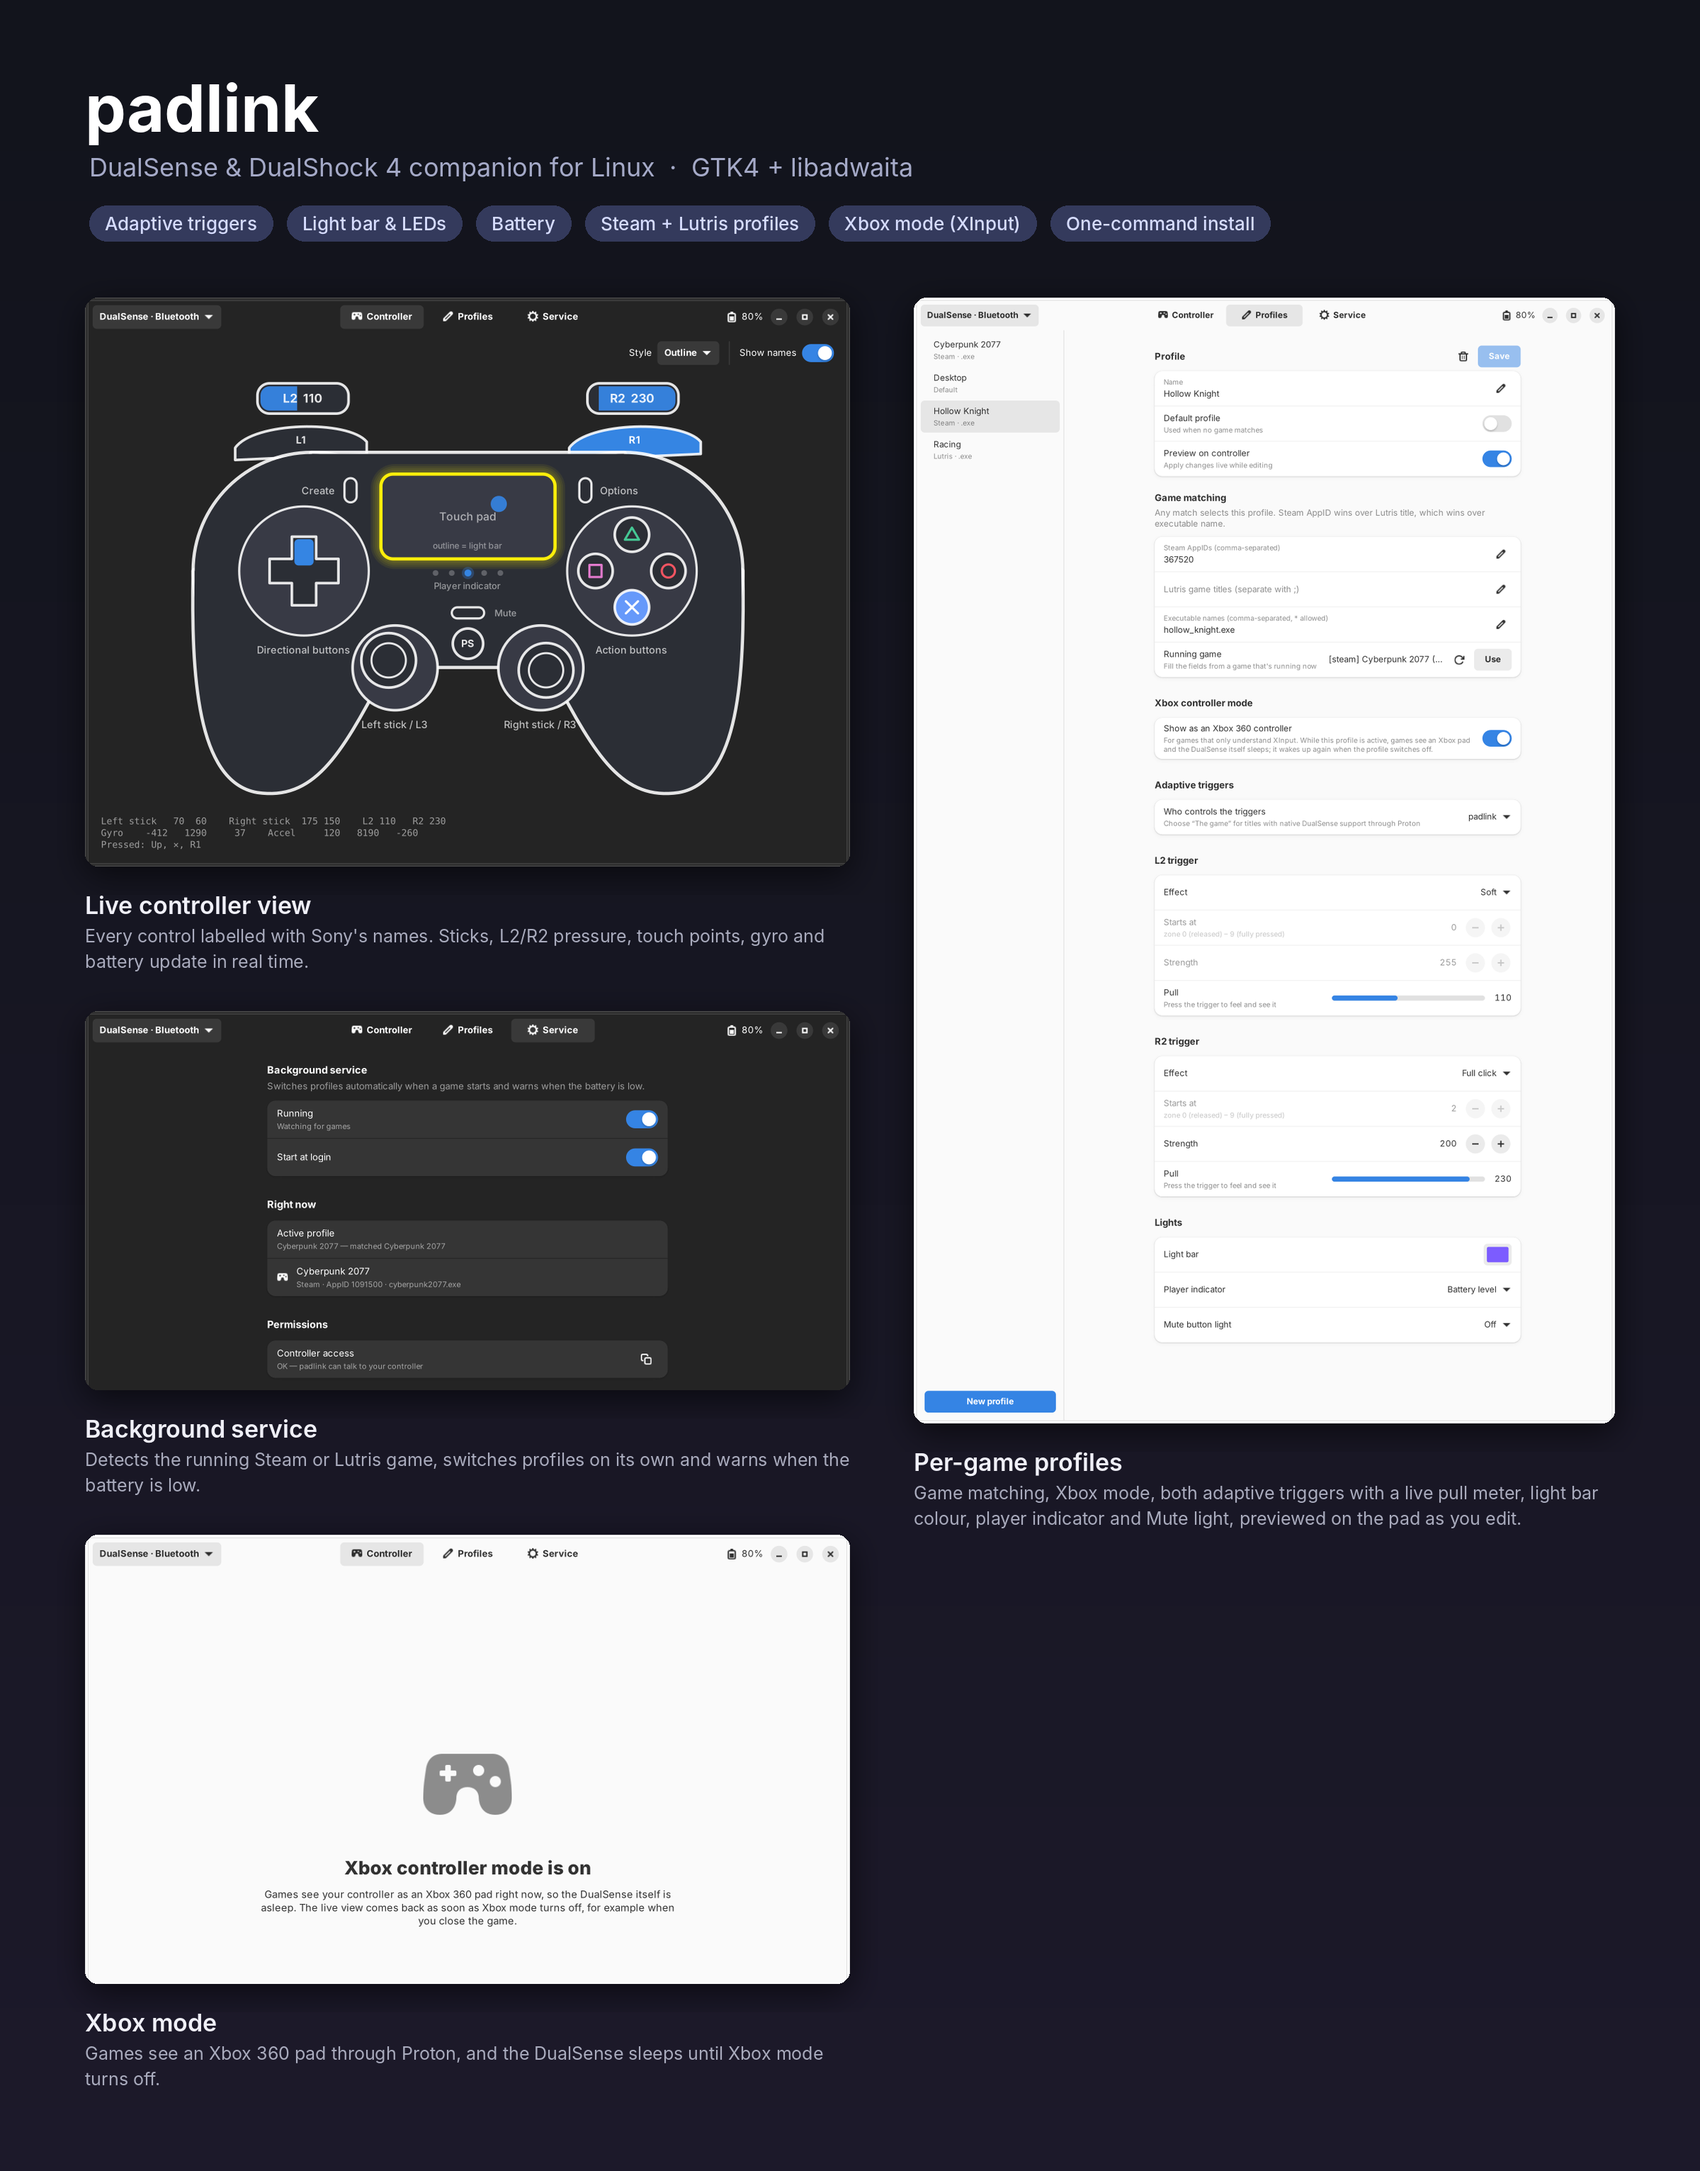
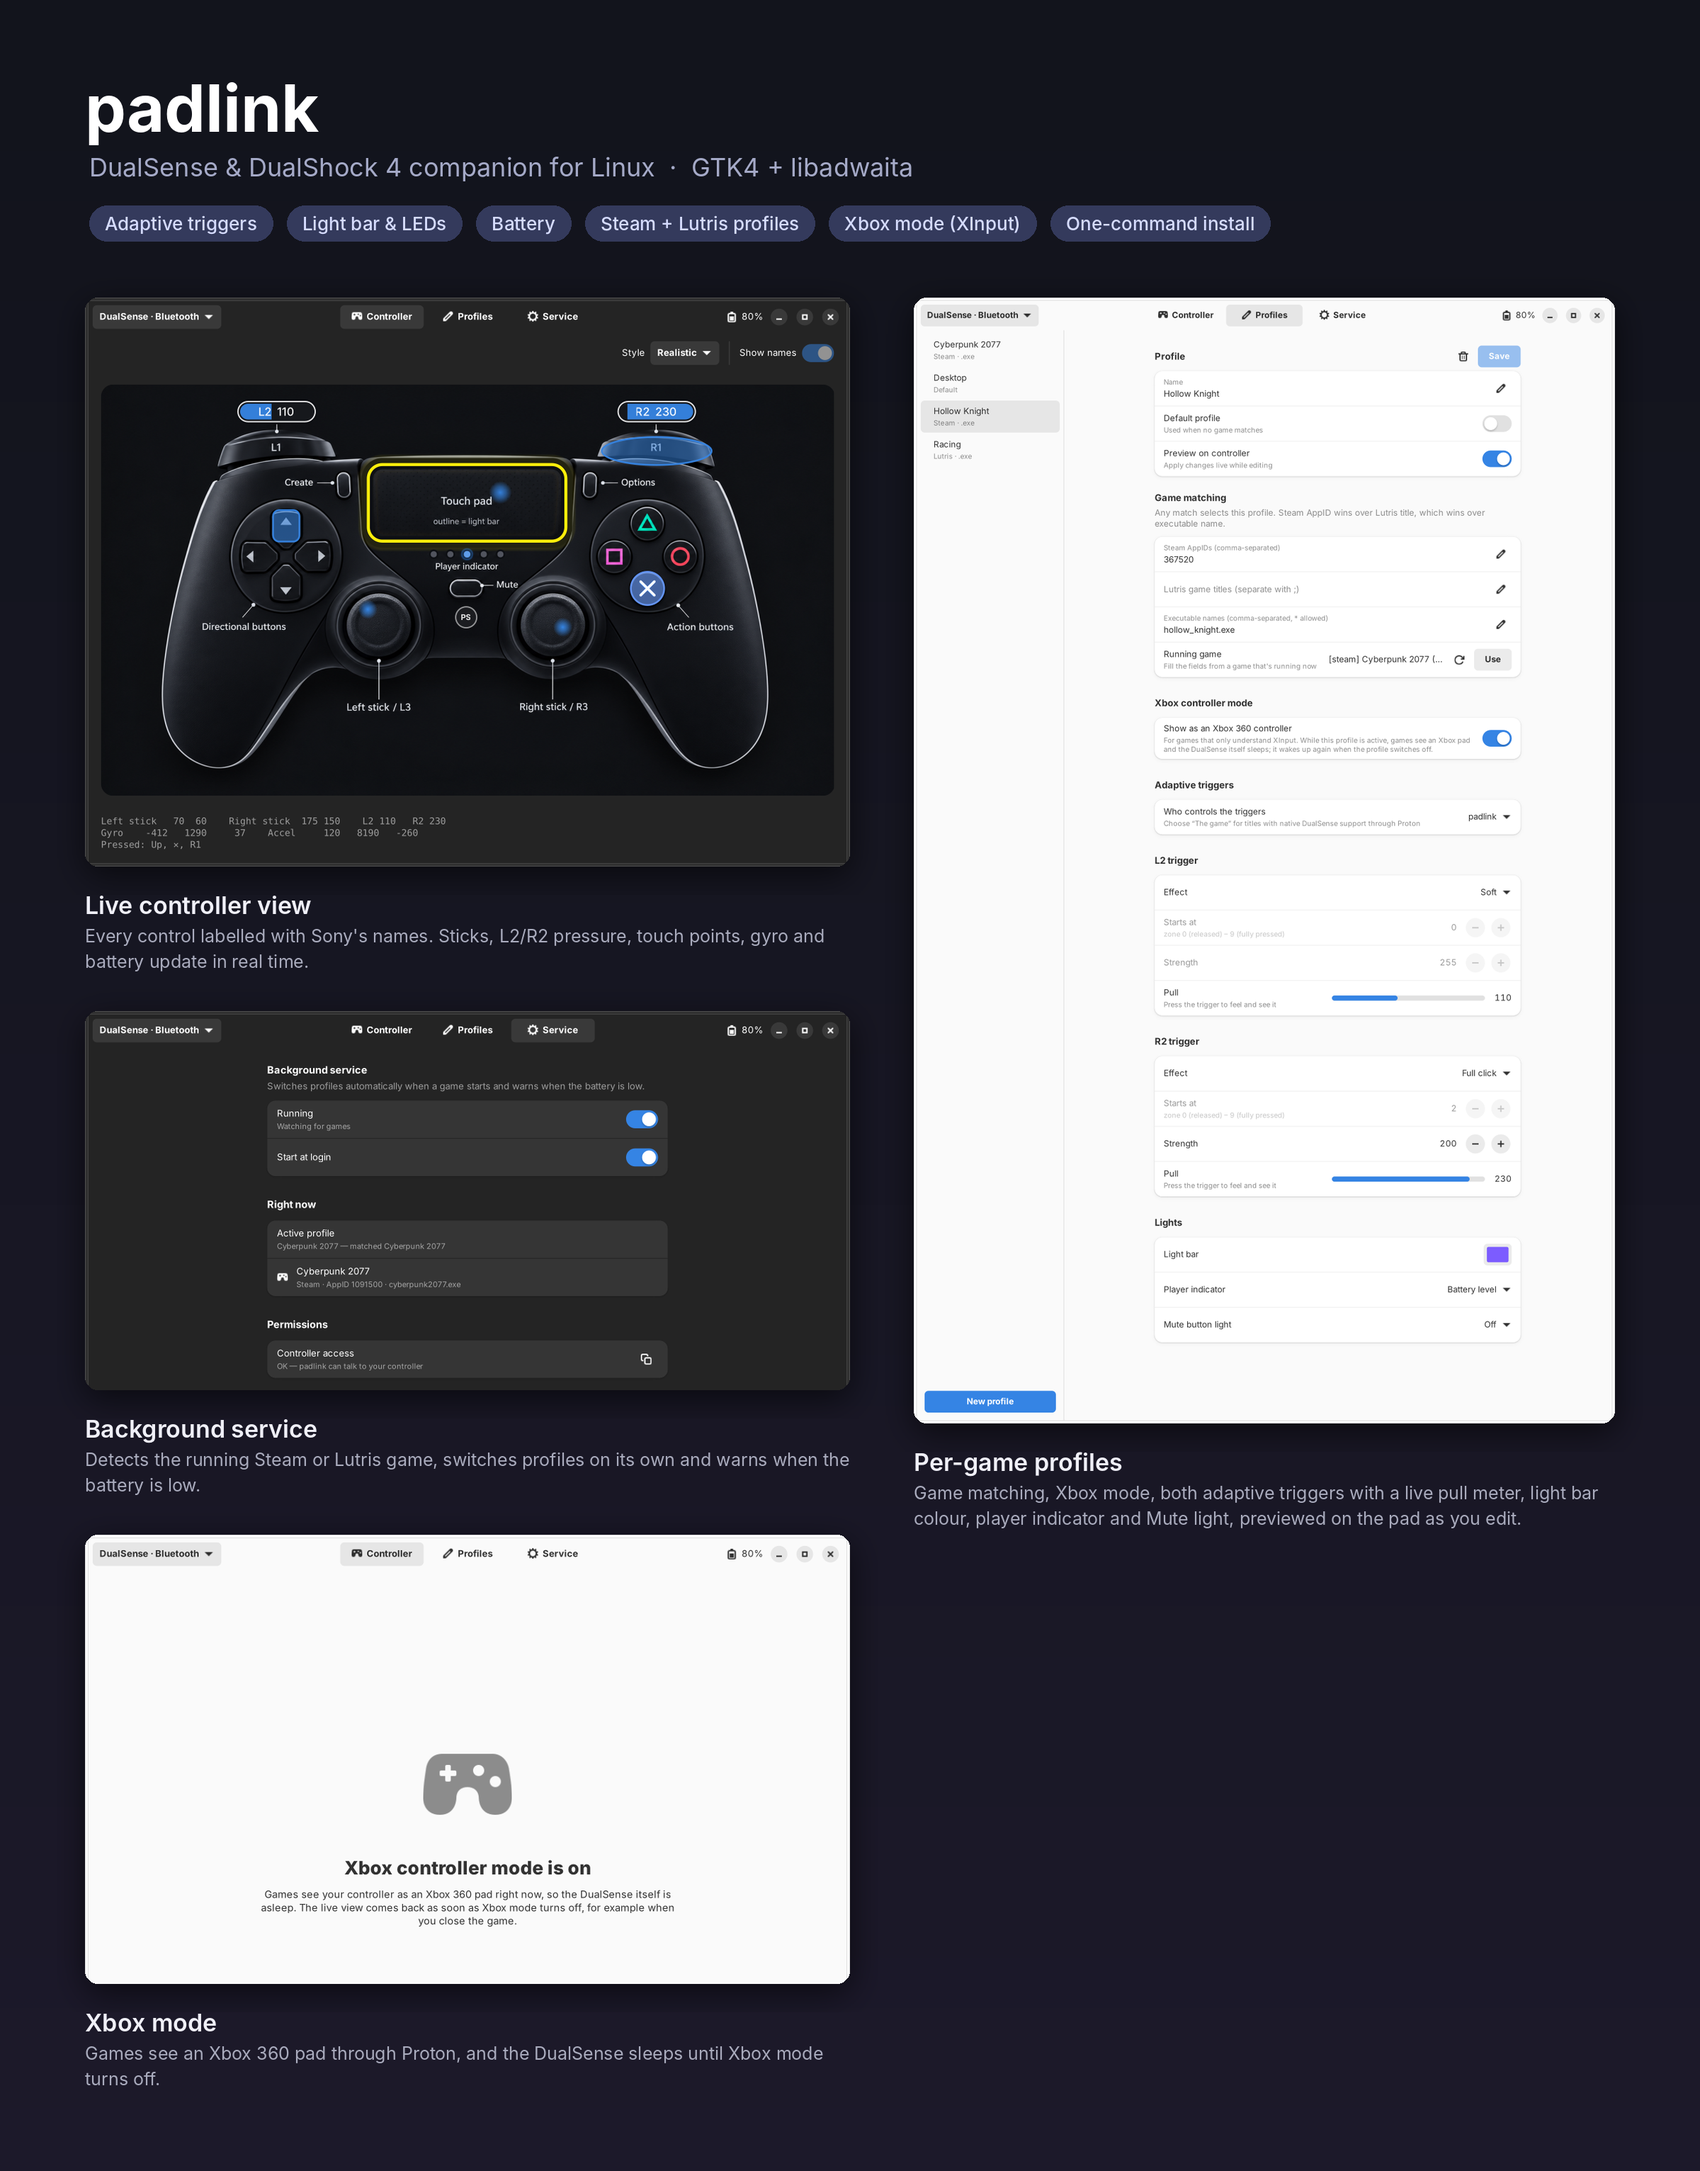
docs: screenshots with the realistic controller style
Claude-Session: https://claude.ai/code/session_01VhzyKXZU1ZSBg4azUcnmCZ

Changed region(s): [[0.0938, 0.155, 0.4688, 0.3721], [0.4688, 0.155, 0.5, 0.186]]

diff --git a/CHANGELOG.md b/CHANGELOG.md
@@ -17,8 +17,9 @@ follows [Semantic Versioning](https://semver.org/).
 - Branch and tag protection: CODEOWNERS, repository rulesets for `main`, `develop` and `v*` tags, and `scripts/apply-repo-protection.sh`.
 
 ### Changed
-- Redesigned controller view with two styles, switchable on the Controller page and remembered:
-  **Outline** (default: flat, bold lines, round pads around the D-pad and action buttons, ringed
+- Redesigned controller view with three styles, switchable on the Controller page and remembered:
+  **Realistic** (default: a rendered controller with live highlights, stick markers, L2/R2 meters
+  and the light bar colour drawn on top), **Outline** ( flat, bold lines, round pads around the D-pad and action buttons, ringed
   sticks) and **Shaded** (single-tone shell with depth and recessed sticks). In both, the touch pad
   is outlined in the current light bar colour; both adapt to the light and dark themes.
 - Low-battery notification now comes below 25% (was at 20%); thresholds are configurable.
